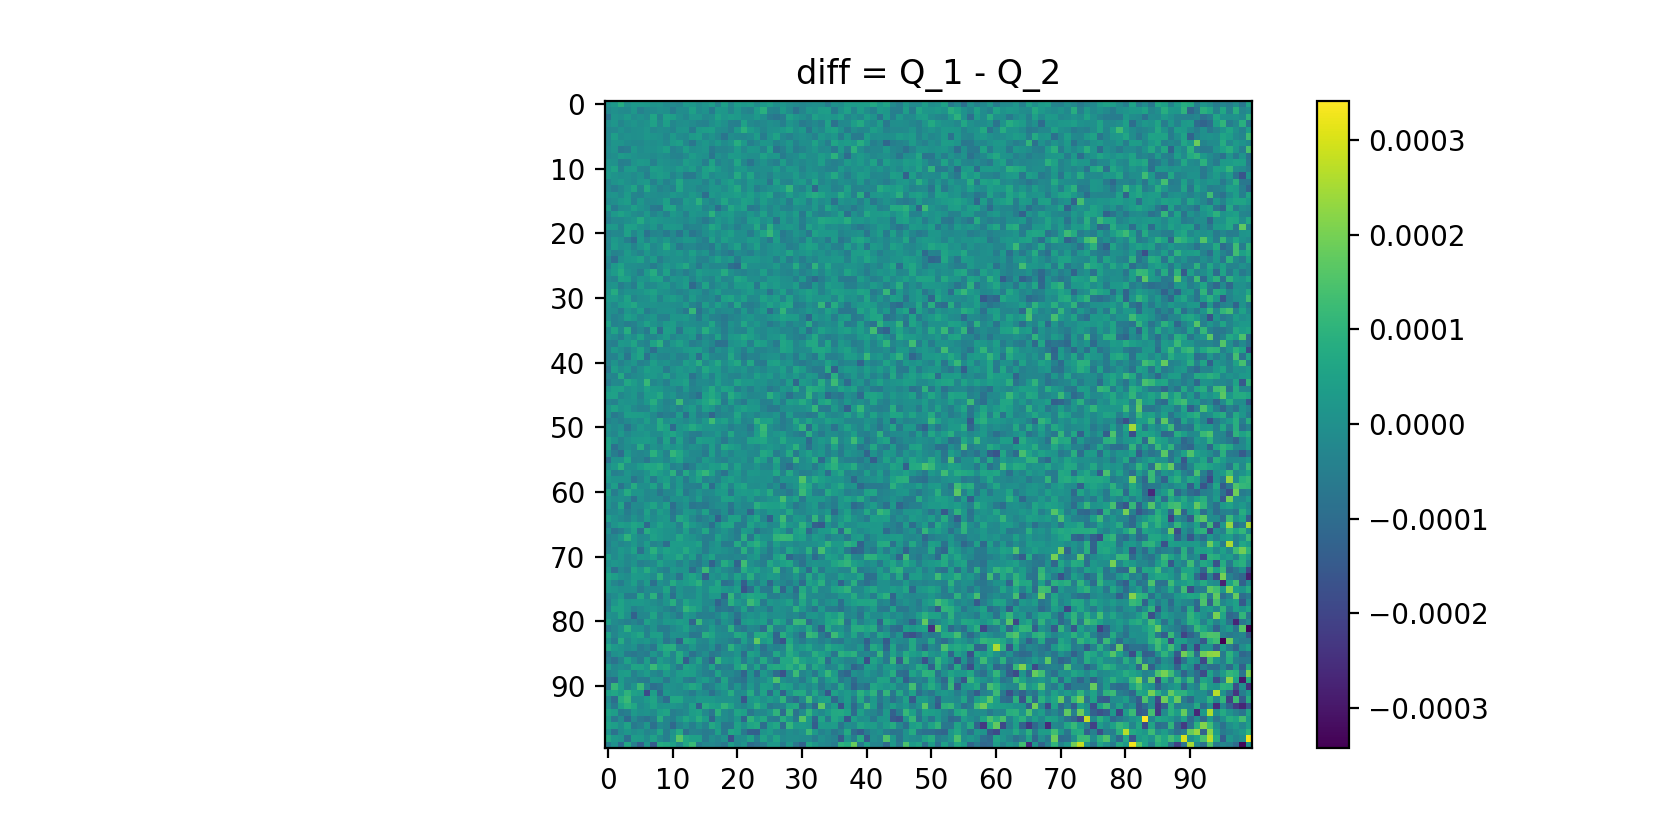
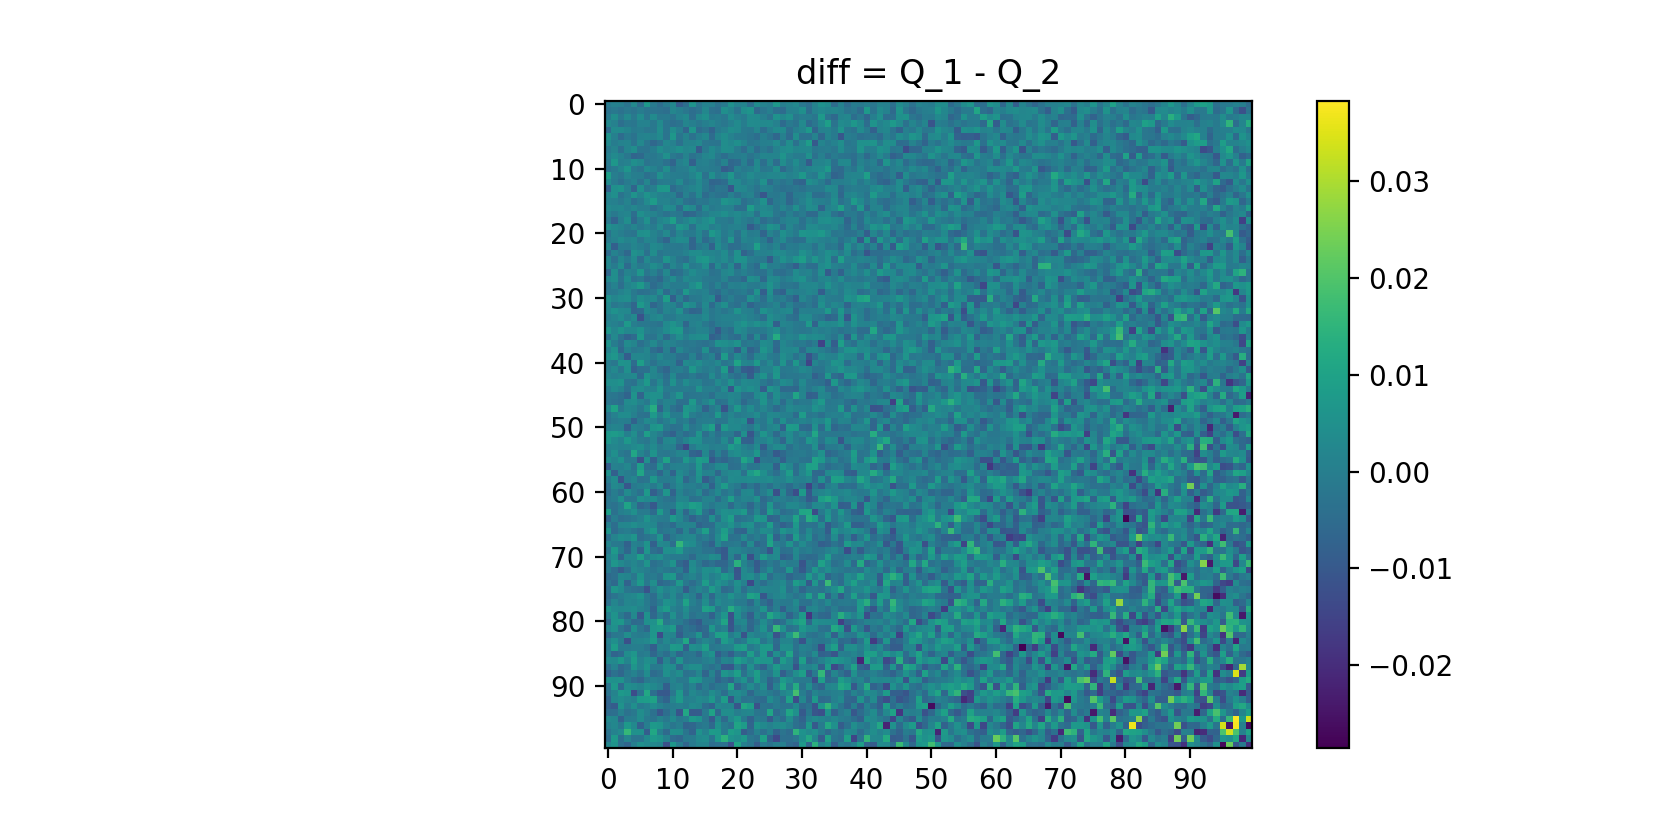
push to hug

diff --git a/2-blend/svd_decompose.py b/2-blend/svd_decompose.py
@@ -1,0 +1,254 @@
+#!/usr/bin/env python3
+# compare_layer10_singular_values_llama_hf_3rows.py
+#
+# Based on your current script:
+# - Load TWO HuggingFace LLaMA-family checkpoints from your DEFAULT PATHS
+# - Only layer=10 (0-based)
+# - Only Attention q_proj + MLP gate_proj (NO up/down; MLP uses gate only)
+#
+# Plot 3 rows x 2 cols:
+#   Row 1: singular values (Before vs After)
+#   Row 2: relative change   (after - before) / before
+#   Row 3: absolute change   (after - before)
+#   Col 1: Attention q_proj
+#   Col 2: MLP gate_proj
+#
+# Usage:
+#   python compare_layer10_singular_values_llama_hf_3rows.py
+#   # or override
+#   python compare_layer10_singular_values_llama_hf_3rows.py --layer 10 --topk 256 --out fig.png
+
+import argparse
+import os
+from typing import Tuple
+
+import torch
+import matplotlib.pyplot as plt
+from transformers import AutoModelForCausalLM
+
+
+# ----------------------------
+# Utils
+# ----------------------------
+def basename_like(s: str) -> str:
+    s = s.rstrip("/").rstrip("\\")
+    if "/" in s:
+        return s.split("/")[-1]
+    if "\\" in s:
+        return s.split("\\")[-1]
+    return s
+
+
+def svd_singular_values(weight: torch.Tensor) -> torch.Tensor:
+    """SVD singular values for 2D+ weight tensor: reshape to [out_dim, -1]."""
+    if weight.ndim < 2:
+        raise ValueError(f"Expected weight.ndim >= 2, got {weight.shape}")
+    mat = weight.detach().to(torch.float32).reshape(weight.shape[0], -1).cpu()
+    return torch.linalg.svdvals(mat).cpu()
+
+
+def relative_change(after: torch.Tensor, before: torch.Tensor, eps: float = 1e-12) -> torch.Tensor:
+    """(after - before) / before"""
+    min_len = min(int(after.numel()), int(before.numel()))
+    a = after[:min_len]
+    b = before[:min_len]
+    return (a - b) / (b.abs() + eps)
+
+
+def absolute_change(after: torch.Tensor, before: torch.Tensor) -> torch.Tensor:
+    """after - before"""
+    min_len = min(int(after.numel()), int(before.numel()))
+    return after[:min_len] - before[:min_len]
+
+
+def load_llama_causal_lm(model_id: str):
+    model = AutoModelForCausalLM.from_pretrained(
+        model_id,
+        torch_dtype="auto",
+        device_map="cpu",
+        trust_remote_code=True,
+    )
+    model.eval()
+    return model
+
+
+def get_layer_weights(model, layer: int) -> Tuple[torch.Tensor, torch.Tensor]:
+    """
+    LLaMA-style HF:
+      model.model.layers[layer].self_attn.q_proj.weight
+      model.model.layers[layer].mlp.gate_proj.weight
+    """
+    try:
+        layers = model.model.layers
+    except Exception as e:
+        raise AttributeError(
+            "Cannot access model.model.layers. This checkpoint might not be LLaMA-style. "
+            "Try: print(model) and adjust access paths."
+        ) from e
+
+    if layer < 0 or layer >= len(layers):
+        raise IndexError(f"layer={layer} out of range: [0, {len(layers)-1}]")
+
+    lyr = layers[layer]
+    q_w = lyr.self_attn.q_proj.weight
+    gate_w = lyr.mlp.gate_proj.weight
+    return q_w, gate_w
+
+
+# ----------------------------
+# Plotting
+# ----------------------------
+def plot_grid_3rows(
+    s_before_q: torch.Tensor,
+    s_after_q: torch.Tensor,
+    s_before_gate: torch.Tensor,
+    s_after_gate: torch.Tensor,
+    model_before_name: str,
+    model_after_name: str,
+    layer: int,
+    topk: int,
+    out_path: str,
+):
+    def _topk(x: torch.Tensor) -> torch.Tensor:
+        if topk <= 0:
+            return x
+        return x[: min(int(x.numel()), topk)]
+
+    bq = _topk(s_before_q)
+    aq = _topk(s_after_q)
+    bg = _topk(s_before_gate)
+    ag = _topk(s_after_gate)
+
+    rq = relative_change(aq, bq)
+    rg = relative_change(ag, bg)
+    dq = absolute_change(aq, bq)
+    dg = absolute_change(ag, bg)
+
+    mean_abs_rq = float(rq.abs().mean().item())
+    mean_abs_rg = float(rg.abs().mean().item())
+    mean_abs_dq = float(dq.abs().mean().item())
+    mean_abs_dg = float(dg.abs().mean().item())
+
+    fig, axes = plt.subplots(3, 2, figsize=(16, 10), sharex="col")
+
+    # Row 1: singular values
+    ax = axes[0, 0]
+    ax.plot(range(1, len(bq) + 1), bq.numpy(), label="Before")
+    ax.plot(range(1, len(aq) + 1), aq.numpy(), label="After")
+    ax.set_title("Attention q_proj: singular values")
+    ax.set_ylabel(r"$\sigma_i$")
+    ax.legend()
+
+    ax = axes[0, 1]
+    ax.plot(range(1, len(bg) + 1), bg.numpy(), label="Before")
+    ax.plot(range(1, len(ag) + 1), ag.numpy(), label="After")
+    ax.set_title("MLP gate_proj: singular values")
+    ax.set_ylabel(r"$\sigma_i$")
+    ax.legend()
+
+    # Row 2: relative change
+    ax = axes[1, 0]
+    ax.plot(range(1, len(rq) + 1), rq.numpy())
+    ax.axhline(0.0)
+    ax.set_title("Attention q_proj: relative change")
+    ax.set_ylabel(r"$(\sigma^{after}-\sigma^{before})/\sigma^{before}$")
+    ax.text(0.02, 0.92, f"mean |Δσ/σ| = {mean_abs_rq*100:.4f}%", transform=ax.transAxes, va="top")
+
+    ax = axes[1, 1]
+    ax.plot(range(1, len(rg) + 1), rg.numpy())
+    ax.axhline(0.0)
+    ax.set_title("MLP gate_proj: relative change")
+    ax.set_ylabel(r"$(\sigma^{after}-\sigma^{before})/\sigma^{before}$")
+    ax.text(0.02, 0.92, f"mean |Δσ/σ| = {mean_abs_rg*100:.4f}%", transform=ax.transAxes, va="top")
+
+    # Row 3: absolute change
+    ax = axes[2, 0]
+    ax.plot(range(1, len(dq) + 1), dq.numpy())
+    ax.axhline(0.0)
+    ax.set_title("Attention q_proj: absolute change")
+    ax.set_xlabel(f"Rank (top-k={len(dq)})")
+    ax.set_ylabel(r"$\sigma^{after}-\sigma^{before}$")
+    ax.text(0.02, 0.92, f"mean |Δσ| = {mean_abs_dq:.6g}", transform=ax.transAxes, va="top")
+
+    ax = axes[2, 1]
+    ax.plot(range(1, len(dg) + 1), dg.numpy())
+    ax.axhline(0.0)
+    ax.set_title("MLP gate_proj: absolute change")
+    ax.set_xlabel(f"Rank (top-k={len(dg)})")
+    ax.set_ylabel(r"$\sigma^{after}-\sigma^{before}$")
+    ax.text(0.02, 0.92, f"mean |Δσ| = {mean_abs_dg:.6g}", transform=ax.transAxes, va="top")
+
+    suptitle = f"LLaMA Layer {layer} Spectrum | Before: {model_before_name}  →  After: {model_after_name}"
+    fig.suptitle(suptitle)
+    fig.tight_layout()
+
+    os.makedirs(os.path.dirname(out_path) or ".", exist_ok=True)
+    fig.savefig(out_path, dpi=200)
+    print(f"[OK] saved figure -> {out_path}")
+
+
+# ----------------------------
+# Main
+# ----------------------------
+def main():
+    parser = argparse.ArgumentParser()
+    parser.add_argument(
+        "--model_before",
+        type=str,
+        default="/home/sliu/zhizhou/workspace/rotation-project/shared_folder/hf_models/Llama-3.2-3B-Instruct",
+        help="HF model id/path (before)",
+    )
+    parser.add_argument(
+        "--model_after",
+        type=str,
+        default="/fast/sliu/zhizhou/workspace/rotation-project/shared_folder/fsdp_converted/llama-muon-muonlr1e-4-spectral_norm-muonadamlr1e-6-20260110_005142-global_step_200",
+        help="HF model id/path (after)",
+    )
+    parser.add_argument("--layer", type=int, default=10, help="layer index (0-based), default=10")
+    parser.add_argument("--topk", type=int, default=0, help="plot only top-k ranks (0 = all)")
+    parser.add_argument("--out", type=str, default="llama_muon_layer10_q_gate_3rows.png", help="output figure path")
+    args = parser.parse_args()
+
+    before_name = basename_like(args.model_before)
+    after_name = basename_like(args.model_after)
+
+    print(f"[LOAD] before: {args.model_before}")
+    model_b = load_llama_causal_lm(args.model_before)
+
+    print(f"[LOAD] after : {args.model_after}")
+    model_a = load_llama_causal_lm(args.model_after)
+
+    q_b, gate_b = get_layer_weights(model_b, args.layer)
+    q_a, gate_a = get_layer_weights(model_a, args.layer)
+
+    print("[FOUND] shapes:")
+    print(f"  q_proj   before {tuple(q_b.shape)} | after {tuple(q_a.shape)}")
+    print(f"  gate_proj before {tuple(gate_b.shape)} | after {tuple(gate_a.shape)}")
+
+    print("[SVD] q_proj ...")
+    s_before_q = svd_singular_values(q_b)
+    s_after_q = svd_singular_values(q_a)
+
+    print("[SVD] gate_proj ...")
+    s_before_gate = svd_singular_values(gate_b)
+    s_after_gate = svd_singular_values(gate_a)
+
+    plot_grid_3rows(
+        s_before_q=s_before_q,
+        s_after_q=s_after_q,
+        s_before_gate=s_before_gate,
+        s_after_gate=s_after_gate,
+        model_before_name=before_name,
+        model_after_name=after_name,
+        layer=args.layer,
+        topk=args.topk,
+        out_path=args.out,
+    )
+
+    del model_b, model_a
+    torch.cuda.empty_cache()
+
+
+if __name__ == "__main__":
+    torch.set_grad_enabled(False)
+    main()

diff --git a/5-orthogonality/rand_svd.py b/5-orthogonality/rand_svd.py
@@ -1,25 +1,37 @@
 import torch
 
 # # random init n * n matrix 
-# n = 100
-# m = 200
-
 n = 200
 m = 100
 
-matrix_a = torch.randn(n, m)
-matrix_b = matrix_a + 1e-3 * torch.randn(n, m)
+W = torch.randn(n, m)
+
+# 两个 base
+# W1 = W + deltaW1
+# W2 = W + deltaW2
+
+# W1 and W2 I distance 很大
+
+# W 和 W1 和 I distance 很小
+
+# dis(W, W1) < dis(W1, W2)
+
+
+delta_W = 1e-1 * torch.randn(n, m)
+updated_W = W + delta_W
 
 # do svd for a
-U_a, S_a, Vh_a = torch.linalg.svd(matrix_a, full_matrices=False)
+U_a, S_a, Vh_a = torch.linalg.svd(W, full_matrices=False)
 # do svd for b
-U_b, S_b, Vh_b = torch.linalg.svd(matrix_b, full_matrices=False)
+U_b, S_b, Vh_b = torch.linalg.svd(updated_W, full_matrices=False)
 
 V_a = Vh_a.T
 V_b = Vh_b.T
 
 Q_1 = U_a.T @ U_b
 Q_2 = V_a.T @ V_b
+
+I_orth = Q_1.T @ Q_2
 
 diff = Q_1 - Q_2
 
@@ -39,14 +51,10 @@ fig.colorbar(im0, ax=axes)
 fig.savefig("diff.png")
 plt.close()
 
-exit()
-
 
 # print(f"u shape: {U_a.shape}, {U_b.shape}")
 # print(f"v shape: {V_a.shape}, {V_b.shape}")
 # print(f"q shape: {Q_1.shape}, {Q_2.shape}")
-
-I_orth = Q_1.T @ Q_2
 
 # printdiagnal elements
 diag_elements = torch.diagonal(I_orth)

diff --git a/2-blend/blend.py b/2-blend/blend.py
@@ -231,6 +231,8 @@ def stage_merge(
                 continue
 
             # sigma blend
+            # Sa for after, Sb for before
+            # 0 means full before, 1 means full after
             S_blend = alpha * S_a + (1.0 - alpha) * S_b
 
             # reconstruct
